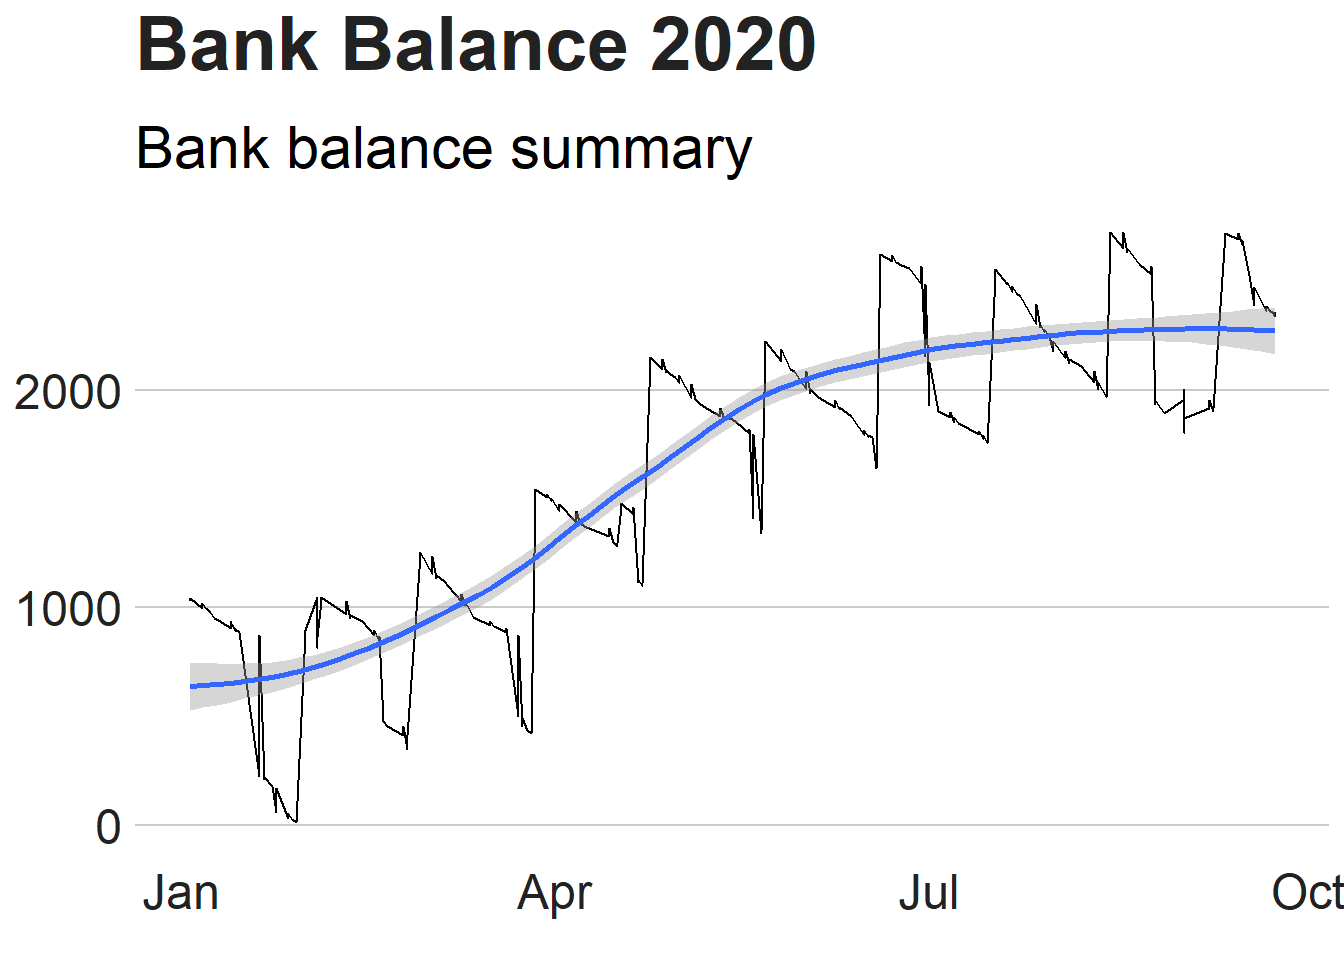
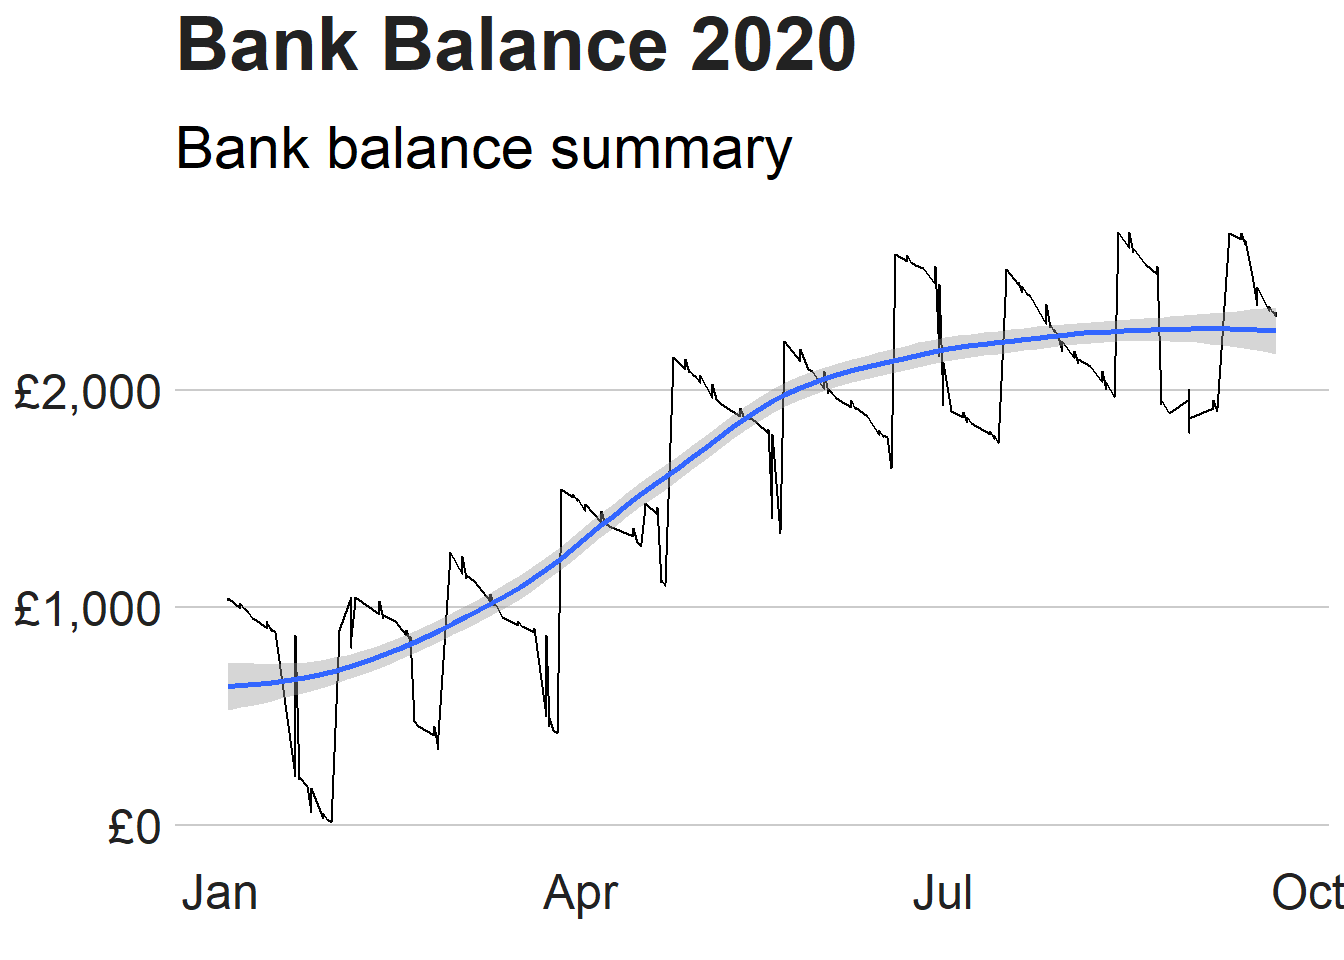
zizz

diff --git a/public/2020/07/02/bank-transactions-and-asda/index.html b/public/2020/07/02/bank-transactions-and-asda/index.html
@@ -6,8 +6,8 @@
 <meta name="generator" content="Hugo 0.73.0" />
 
 
-<title>Bank transactions and ASDA - Roy Blogdown</title>
-<meta property="og:title" content="Bank transactions and ASDA - Roy Blogdown">
+<title>ASDA - Roy Blogdown</title>
+<meta property="og:title" content="ASDA - Roy Blogdown">
 
 
   <link href='/featured.ico' rel='icon' type='image/x-icon'/>
@@ -64,10 +64,10 @@
 
   <article class="article">
     
-    <span class="article-duration">4 min read</span>
+    <span class="article-duration">2 min read</span>
     
 
-    <h1 class="article-title">Bank transactions and ASDA</h1>
+    <h1 class="article-title">ASDA</h1>
 
     
     <span class="article-date">2020-07-02</span>
@@ -77,8 +77,6 @@
       
 
 
-<div id="bbc-news-ggplot-style-example" class="section level1">
-<h1>BBC News ggplot style example</h1>
 <p>This is an example article using the BBC News ggplot style package. Data is sourced from bank statements.</p>
 <pre class="r"><code>year2020 &lt;- read_csv(&quot;2019-2020.csv&quot;)
 year2019 &lt;- read_csv(&quot;2018-2019.csv&quot;)
@@ -90,46 +88,15 @@ year2016 &lt;- read_csv(&quot;2015-2016.csv&quot;)</code></pre>
   union_all(year2018) %&gt;% 
   union_all(year2017) %&gt;% 
   union_all(year2016)
-year2020</code></pre>
-<pre><code>## # A tibble: 610 x 8
-##    `Transaction Da~ `Transaction Ty~ `Sort Code` `Account Number`
-##    &lt;chr&gt;            &lt;chr&gt;            &lt;chr&gt;                  &lt;dbl&gt;
-##  1 23/09/2020       DEB              &#39;77-85-26           42051368
-##  2 23/09/2020       DEB              &#39;77-85-26           42051368
-##  3 22/09/2020       DEB              &#39;77-85-26           42051368
-##  4 22/09/2020       DEB              &#39;77-85-26           42051368
-##  5 22/09/2020       DEB              &#39;77-85-26           42051368
-##  6 21/09/2020       DEB              &#39;77-85-26           42051368
-##  7 21/09/2020       DEB              &#39;77-85-26           42051368
-##  8 21/09/2020       DEB              &#39;77-85-26           42051368
-##  9 21/09/2020       DEB              &#39;77-85-26           42051368
-## 10 21/09/2020       DEB              &#39;77-85-26           42051368
-## # ... with 600 more rows, and 4 more variables: `Transaction
-## #   Description` &lt;chr&gt;, `Debit Amount` &lt;dbl&gt;, `Credit Amount` &lt;dbl&gt;,
-## #   Balance &lt;dbl&gt;</code></pre>
-<pre class="r"><code>colnames(data) &lt;- c(&quot;date&quot;,&quot;type&quot;,&quot;code&quot;,&quot;number&quot;,&quot;description&quot;,&quot;dr&quot;,&quot;cr&quot;,&quot;balance&quot;)
+
+colnames(data) &lt;- c(&quot;date&quot;,&quot;type&quot;,&quot;code&quot;,&quot;number&quot;,&quot;description&quot;,&quot;dr&quot;,&quot;cr&quot;,&quot;balance&quot;)
 
 data &lt;- data %&gt;%
   mutate(date = dmy(date),
          year_month = as.numeric(paste(year(date), month(date), sep = &quot;&quot;))) %&gt;% 
   arrange(date)
 
-data</code></pre>
-<pre><code>## # A tibble: 2,438 x 9
-##    date       type  code     number description      dr    cr balance year_month
-##    &lt;date&gt;     &lt;chr&gt; &lt;chr&gt;     &lt;dbl&gt; &lt;chr&gt;         &lt;dbl&gt; &lt;dbl&gt;   &lt;dbl&gt;      &lt;dbl&gt;
-##  1 2015-09-28 DEB   &#39;77-85~  4.21e7 BANGOR UNIVE~  3      NA    2548.      20159
-##  2 2015-09-28 DEB   &#39;77-85~  4.21e7 CURRYS SUPER~ 23.0    NA    2551.      20159
-##  3 2015-09-28 DEB   &#39;77-85~  4.21e7 VODAFONE LTD  10      NA    2574.      20159
-##  4 2015-09-28 BGC   &#39;77-85~  4.21e7 STUDENT LOAN~ NA    1336.   2584.      20159
-##  5 2015-09-28 BGC   &#39;77-85~  4.21e7 STUDENT LOAN~ NA    1129    1248.      20159
-##  6 2015-09-29 DEB   &#39;77-85~  4.21e7 ASDA STORES ~  6.05   NA    2542.      20159
-##  7 2015-09-30 DEB   &#39;77-85~  4.21e7 W M MORRISON~  7.19   NA    2535.      20159
-##  8 2015-10-02 DEB   &#39;77-85~  4.21e7 W M MORRISON~ 13.0    NA    2522.     201510
-##  9 2015-10-05 DEB   &#39;77-85~  4.21e7 BANGOR UNIVE~  3.93   NA    2493.     201510
-## 10 2015-10-05 DEB   &#39;77-85~  4.21e7 VODAFONE LTD  20      NA    2497.     201510
-## # ... with 2,428 more rows</code></pre>
-<pre class="r"><code>data_asda_wages &lt;- data %&gt;% 
+data_asda_wages &lt;- data %&gt;% 
   filter(!cr==is.na(cr),
          description==&quot;ASDA STORES PLC&quot;) %&gt;% 
   mutate(cumsum_asda_wage=cumsum(cr))
@@ -142,41 +109,24 @@ data_asda_costs &lt;- data %&gt;%
   ggplot(aes(date,balance))+
   geom_line()+
   geom_smooth()+
+  scale_y_continuous(labels = scales::dollar_format(prefix = &quot;£&quot;))+
   bbc_style()+
   labs(title = &quot;Bank Balance 2015-2020&quot;,
        subtitle=&quot;Bank balance summary for university years&quot;)</code></pre>
 <p><img src="/post/2020-07-02-bank-transactions-and-asda_files/figure-html/unnamed-chunk-4-1.png" width="672" /></p>
-</div>
-<div id="another-headline" class="section level1">
-<h1>Another headline</h1>
-<p>And some text to separate the graphs.</p>
 <pre class="r"><code>  data %&gt;%
-  filter(year_month &gt; &quot;2020-1-1&quot;) %&gt;% 
-  ggplot(aes(date,balance))+
-  geom_line()+
-  geom_smooth()+
-  bbc_style()+
-  labs(title = &quot;Bank Balance 2020&quot;,
-       subtitle=&quot;Bank balance summary&quot;)</code></pre>
+    filter(year_month &gt; &quot;2020-1-1&quot;) %&gt;% 
+    ggplot(aes(date,balance))+
+      geom_line()+
+      geom_smooth()+
+    scale_y_continuous(labels = scales::dollar_format(prefix = &quot;£&quot;))+
+    bbc_style()+
+    labs(title = &quot;Bank Balance 2020&quot;,
+         subtitle=&quot;Bank balance summary&quot;)</code></pre>
 <p><img src="/post/2020-07-02-bank-transactions-and-asda_files/figure-html/unnamed-chunk-5-1.png" width="672" /></p>
-</div>
 <div id="asda" class="section level1">
 <h1>ASDA</h1>
-<p>Cumulative wages and costs specific to ASDA. The graph clearly shows that I spend too much money during my lunch breaks.</p>
-<pre class="r"><code>data_asda_costs %&gt;% 
-  union_all(data_asda_wages) %&gt;% 
-  arrange(date) %&gt;% 
-  filter(date&gt;dmy(&quot;30092016&quot;)) %&gt;% 
-  ggplot(aes(date))+
-  geom_ribbon(aes(ymax=cumsum_asda_wage,ymin=0),na.rm = T,alpha=0.7,colour=&quot;black&quot;,fill=&quot;darkgreen&quot;,size=1)+
-  geom_ribbon(aes(ymax=cumsum_asda,ymin=0),na.rm=T,alpha=0.9,colour=&quot;black&quot;,fill=&quot;red&quot;,size=1)+
-  theme_bw()+
-  labs(title=&quot;ASDA (theme_bw)&quot;,
-    subtitle=&quot;ASDA cumulative wages and costs in store&quot;
-  )+ 
-  annotate(&quot;text&quot;, x = dmy(&quot;01032020&quot;), y = 12000, size=6,label = &quot;wages&quot;,colour=&quot;white&quot;)+ 
-  annotate(&quot;text&quot;, x = dmy(&quot;01032020&quot;), y = 2100, size=6, label = &quot;costs&quot;,colour=&quot;white&quot;)</code></pre>
-<p><img src="/post/2020-07-02-bank-transactions-and-asda_files/figure-html/unnamed-chunk-6-1.png" width="672" /></p>
+<p>Cumulative wages and costs specific to ASDA.</p>
 <pre class="r"><code>data_asda_costs %&gt;% 
   union_all(data_asda_wages) %&gt;% 
   arrange(date) %&gt;% 
@@ -190,27 +140,30 @@ data_asda_costs &lt;- data %&gt;%
   )+ 
   annotate(&quot;text&quot;, x = dmy(&quot;01032020&quot;), y = 12000, size=6,label = &quot;wages&quot;,colour=&quot;white&quot;)+ 
   annotate(&quot;text&quot;, x = dmy(&quot;01032020&quot;), y = 2100, size=6, label = &quot;costs&quot;,colour=&quot;white&quot;)</code></pre>
-<p><img src="/post/2020-07-02-bank-transactions-and-asda_files/figure-html/unnamed-chunk-7-1.png" width="672" /></p>
-<pre class="r"><code>data</code></pre>
-<pre><code>## # A tibble: 2,438 x 9
-##    date       type  code     number description      dr    cr balance year_month
-##    &lt;date&gt;     &lt;chr&gt; &lt;chr&gt;     &lt;dbl&gt; &lt;chr&gt;         &lt;dbl&gt; &lt;dbl&gt;   &lt;dbl&gt;      &lt;dbl&gt;
-##  1 2015-09-28 DEB   &#39;77-85~  4.21e7 BANGOR UNIVE~  3      NA    2548.      20159
-##  2 2015-09-28 DEB   &#39;77-85~  4.21e7 CURRYS SUPER~ 23.0    NA    2551.      20159
-##  3 2015-09-28 DEB   &#39;77-85~  4.21e7 VODAFONE LTD  10      NA    2574.      20159
-##  4 2015-09-28 BGC   &#39;77-85~  4.21e7 STUDENT LOAN~ NA    1336.   2584.      20159
-##  5 2015-09-28 BGC   &#39;77-85~  4.21e7 STUDENT LOAN~ NA    1129    1248.      20159
-##  6 2015-09-29 DEB   &#39;77-85~  4.21e7 ASDA STORES ~  6.05   NA    2542.      20159
-##  7 2015-09-30 DEB   &#39;77-85~  4.21e7 W M MORRISON~  7.19   NA    2535.      20159
-##  8 2015-10-02 DEB   &#39;77-85~  4.21e7 W M MORRISON~ 13.0    NA    2522.     201510
-##  9 2015-10-05 DEB   &#39;77-85~  4.21e7 BANGOR UNIVE~  3.93   NA    2493.     201510
-## 10 2015-10-05 DEB   &#39;77-85~  4.21e7 VODAFONE LTD  20      NA    2497.     201510
-## # ... with 2,428 more rows</code></pre>
+<p><img src="/post/2020-07-02-bank-transactions-and-asda_files/figure-html/unnamed-chunk-6-1.png" width="672" /></p>
+</div>
+<div id="zizza-pizza" class="section level1">
+<h1>Zizza Pizza</h1>
 <pre class="r"><code>data %&gt;% 
-  filter(str_detect(description, &quot;^ZIZZA&quot;)) %&gt;% 
+  arrange(date) %&gt;%   
+  filter(str_detect(description, &quot;(Zizza)|(PIZZA)|(SUBWAY)|(BAR)|(MCDONALDS)|(TAKEAWAY)|(GREGGS)&quot;))  %&gt;% 
   mutate(cumsum=cumsum(dr)) %&gt;% 
   ggplot(aes(date,cumsum)) + 
-  geom_line()</code></pre>
+  geom_line() +
+  ggtitle(&quot;Money spent in Takeaways&quot;) +
+  scale_y_continuous(labels = scales::dollar_format(prefix = &quot;£&quot;))+
+  bbc_style()</code></pre>
+<p><img src="/post/2020-07-02-bank-transactions-and-asda_files/figure-html/unnamed-chunk-7-1.png" width="672" /></p>
+<pre class="r"><code>view(data)
+data %&gt;% 
+  arrange(date) %&gt;%   
+  filter(str_detect(description, &quot;(ZIZZA)|(TAKEAWAY)&quot;))  %&gt;% 
+  mutate(cumsum=cumsum(dr)) %&gt;% 
+  ggplot(aes(date,cumsum)) + 
+  geom_line() +
+  ggtitle(&quot;Money spent in Zizza Pizza&quot;) +
+  scale_y_continuous(labels = scales::dollar_format(prefix = &quot;£&quot;))+
+  bbc_style()</code></pre>
 <p><img src="/post/2020-07-02-bank-transactions-and-asda_files/figure-html/unnamed-chunk-7-2.png" width="672" /></p>
 </div>
 

diff --git a/content/post/2020-07-02-bank-transactions-and-asda.html b/content/post/2020-07-02-bank-transactions-and-asda.html
@@ -1,5 +1,5 @@
 ---
-title: Bank transactions and ASDA
+title: ASDA
 author: ~
 date: '2020-07-02'
 slug: bank-transactions-and-asda
@@ -9,8 +9,6 @@ tags: []
 
 
 
-<div id="bbc-news-ggplot-style-example" class="section level1">
-<h1>BBC News ggplot style example</h1>
 <p>This is an example article using the BBC News ggplot style package. Data is sourced from bank statements.</p>
 <pre class="r"><code>year2020 &lt;- read_csv(&quot;2019-2020.csv&quot;)
 year2019 &lt;- read_csv(&quot;2018-2019.csv&quot;)
@@ -22,46 +20,15 @@ year2016 &lt;- read_csv(&quot;2015-2016.csv&quot;)</code></pre>
   union_all(year2018) %&gt;% 
   union_all(year2017) %&gt;% 
   union_all(year2016)
-year2020</code></pre>
-<pre><code>## # A tibble: 610 x 8
-##    `Transaction Da~ `Transaction Ty~ `Sort Code` `Account Number`
-##    &lt;chr&gt;            &lt;chr&gt;            &lt;chr&gt;                  &lt;dbl&gt;
-##  1 23/09/2020       DEB              &#39;77-85-26           42051368
-##  2 23/09/2020       DEB              &#39;77-85-26           42051368
-##  3 22/09/2020       DEB              &#39;77-85-26           42051368
-##  4 22/09/2020       DEB              &#39;77-85-26           42051368
-##  5 22/09/2020       DEB              &#39;77-85-26           42051368
-##  6 21/09/2020       DEB              &#39;77-85-26           42051368
-##  7 21/09/2020       DEB              &#39;77-85-26           42051368
-##  8 21/09/2020       DEB              &#39;77-85-26           42051368
-##  9 21/09/2020       DEB              &#39;77-85-26           42051368
-## 10 21/09/2020       DEB              &#39;77-85-26           42051368
-## # ... with 600 more rows, and 4 more variables: `Transaction
-## #   Description` &lt;chr&gt;, `Debit Amount` &lt;dbl&gt;, `Credit Amount` &lt;dbl&gt;,
-## #   Balance &lt;dbl&gt;</code></pre>
-<pre class="r"><code>colnames(data) &lt;- c(&quot;date&quot;,&quot;type&quot;,&quot;code&quot;,&quot;number&quot;,&quot;description&quot;,&quot;dr&quot;,&quot;cr&quot;,&quot;balance&quot;)
+
+colnames(data) &lt;- c(&quot;date&quot;,&quot;type&quot;,&quot;code&quot;,&quot;number&quot;,&quot;description&quot;,&quot;dr&quot;,&quot;cr&quot;,&quot;balance&quot;)
 
 data &lt;- data %&gt;%
   mutate(date = dmy(date),
          year_month = as.numeric(paste(year(date), month(date), sep = &quot;&quot;))) %&gt;% 
   arrange(date)
 
-data</code></pre>
-<pre><code>## # A tibble: 2,438 x 9
-##    date       type  code     number description      dr    cr balance year_month
-##    &lt;date&gt;     &lt;chr&gt; &lt;chr&gt;     &lt;dbl&gt; &lt;chr&gt;         &lt;dbl&gt; &lt;dbl&gt;   &lt;dbl&gt;      &lt;dbl&gt;
-##  1 2015-09-28 DEB   &#39;77-85~  4.21e7 BANGOR UNIVE~  3      NA    2548.      20159
-##  2 2015-09-28 DEB   &#39;77-85~  4.21e7 CURRYS SUPER~ 23.0    NA    2551.      20159
-##  3 2015-09-28 DEB   &#39;77-85~  4.21e7 VODAFONE LTD  10      NA    2574.      20159
-##  4 2015-09-28 BGC   &#39;77-85~  4.21e7 STUDENT LOAN~ NA    1336.   2584.      20159
-##  5 2015-09-28 BGC   &#39;77-85~  4.21e7 STUDENT LOAN~ NA    1129    1248.      20159
-##  6 2015-09-29 DEB   &#39;77-85~  4.21e7 ASDA STORES ~  6.05   NA    2542.      20159
-##  7 2015-09-30 DEB   &#39;77-85~  4.21e7 W M MORRISON~  7.19   NA    2535.      20159
-##  8 2015-10-02 DEB   &#39;77-85~  4.21e7 W M MORRISON~ 13.0    NA    2522.     201510
-##  9 2015-10-05 DEB   &#39;77-85~  4.21e7 BANGOR UNIVE~  3.93   NA    2493.     201510
-## 10 2015-10-05 DEB   &#39;77-85~  4.21e7 VODAFONE LTD  20      NA    2497.     201510
-## # ... with 2,428 more rows</code></pre>
-<pre class="r"><code>data_asda_wages &lt;- data %&gt;% 
+data_asda_wages &lt;- data %&gt;% 
   filter(!cr==is.na(cr),
          description==&quot;ASDA STORES PLC&quot;) %&gt;% 
   mutate(cumsum_asda_wage=cumsum(cr))
@@ -74,41 +41,24 @@ data_asda_costs &lt;- data %&gt;%
   ggplot(aes(date,balance))+
   geom_line()+
   geom_smooth()+
+  scale_y_continuous(labels = scales::dollar_format(prefix = &quot;£&quot;))+
   bbc_style()+
   labs(title = &quot;Bank Balance 2015-2020&quot;,
        subtitle=&quot;Bank balance summary for university years&quot;)</code></pre>
 <p><img src="/post/2020-07-02-bank-transactions-and-asda_files/figure-html/unnamed-chunk-4-1.png" width="672" /></p>
-</div>
-<div id="another-headline" class="section level1">
-<h1>Another headline</h1>
-<p>And some text to separate the graphs.</p>
 <pre class="r"><code>  data %&gt;%
-  filter(year_month &gt; &quot;2020-1-1&quot;) %&gt;% 
-  ggplot(aes(date,balance))+
-  geom_line()+
-  geom_smooth()+
-  bbc_style()+
-  labs(title = &quot;Bank Balance 2020&quot;,
-       subtitle=&quot;Bank balance summary&quot;)</code></pre>
+    filter(year_month &gt; &quot;2020-1-1&quot;) %&gt;% 
+    ggplot(aes(date,balance))+
+      geom_line()+
+      geom_smooth()+
+    scale_y_continuous(labels = scales::dollar_format(prefix = &quot;£&quot;))+
+    bbc_style()+
+    labs(title = &quot;Bank Balance 2020&quot;,
+         subtitle=&quot;Bank balance summary&quot;)</code></pre>
 <p><img src="/post/2020-07-02-bank-transactions-and-asda_files/figure-html/unnamed-chunk-5-1.png" width="672" /></p>
-</div>
 <div id="asda" class="section level1">
 <h1>ASDA</h1>
-<p>Cumulative wages and costs specific to ASDA. The graph clearly shows that I spend too much money during my lunch breaks.</p>
-<pre class="r"><code>data_asda_costs %&gt;% 
-  union_all(data_asda_wages) %&gt;% 
-  arrange(date) %&gt;% 
-  filter(date&gt;dmy(&quot;30092016&quot;)) %&gt;% 
-  ggplot(aes(date))+
-  geom_ribbon(aes(ymax=cumsum_asda_wage,ymin=0),na.rm = T,alpha=0.7,colour=&quot;black&quot;,fill=&quot;darkgreen&quot;,size=1)+
-  geom_ribbon(aes(ymax=cumsum_asda,ymin=0),na.rm=T,alpha=0.9,colour=&quot;black&quot;,fill=&quot;red&quot;,size=1)+
-  theme_bw()+
-  labs(title=&quot;ASDA (theme_bw)&quot;,
-    subtitle=&quot;ASDA cumulative wages and costs in store&quot;
-  )+ 
-  annotate(&quot;text&quot;, x = dmy(&quot;01032020&quot;), y = 12000, size=6,label = &quot;wages&quot;,colour=&quot;white&quot;)+ 
-  annotate(&quot;text&quot;, x = dmy(&quot;01032020&quot;), y = 2100, size=6, label = &quot;costs&quot;,colour=&quot;white&quot;)</code></pre>
-<p><img src="/post/2020-07-02-bank-transactions-and-asda_files/figure-html/unnamed-chunk-6-1.png" width="672" /></p>
+<p>Cumulative wages and costs specific to ASDA.</p>
 <pre class="r"><code>data_asda_costs %&gt;% 
   union_all(data_asda_wages) %&gt;% 
   arrange(date) %&gt;% 
@@ -122,26 +72,29 @@ data_asda_costs &lt;- data %&gt;%
   )+ 
   annotate(&quot;text&quot;, x = dmy(&quot;01032020&quot;), y = 12000, size=6,label = &quot;wages&quot;,colour=&quot;white&quot;)+ 
   annotate(&quot;text&quot;, x = dmy(&quot;01032020&quot;), y = 2100, size=6, label = &quot;costs&quot;,colour=&quot;white&quot;)</code></pre>
-<p><img src="/post/2020-07-02-bank-transactions-and-asda_files/figure-html/unnamed-chunk-7-1.png" width="672" /></p>
-<pre class="r"><code>data</code></pre>
-<pre><code>## # A tibble: 2,438 x 9
-##    date       type  code     number description      dr    cr balance year_month
-##    &lt;date&gt;     &lt;chr&gt; &lt;chr&gt;     &lt;dbl&gt; &lt;chr&gt;         &lt;dbl&gt; &lt;dbl&gt;   &lt;dbl&gt;      &lt;dbl&gt;
-##  1 2015-09-28 DEB   &#39;77-85~  4.21e7 BANGOR UNIVE~  3      NA    2548.      20159
-##  2 2015-09-28 DEB   &#39;77-85~  4.21e7 CURRYS SUPER~ 23.0    NA    2551.      20159
-##  3 2015-09-28 DEB   &#39;77-85~  4.21e7 VODAFONE LTD  10      NA    2574.      20159
-##  4 2015-09-28 BGC   &#39;77-85~  4.21e7 STUDENT LOAN~ NA    1336.   2584.      20159
-##  5 2015-09-28 BGC   &#39;77-85~  4.21e7 STUDENT LOAN~ NA    1129    1248.      20159
-##  6 2015-09-29 DEB   &#39;77-85~  4.21e7 ASDA STORES ~  6.05   NA    2542.      20159
-##  7 2015-09-30 DEB   &#39;77-85~  4.21e7 W M MORRISON~  7.19   NA    2535.      20159
-##  8 2015-10-02 DEB   &#39;77-85~  4.21e7 W M MORRISON~ 13.0    NA    2522.     201510
-##  9 2015-10-05 DEB   &#39;77-85~  4.21e7 BANGOR UNIVE~  3.93   NA    2493.     201510
-## 10 2015-10-05 DEB   &#39;77-85~  4.21e7 VODAFONE LTD  20      NA    2497.     201510
-## # ... with 2,428 more rows</code></pre>
+<p><img src="/post/2020-07-02-bank-transactions-and-asda_files/figure-html/unnamed-chunk-6-1.png" width="672" /></p>
+</div>
+<div id="zizza-pizza" class="section level1">
+<h1>Zizza Pizza</h1>
 <pre class="r"><code>data %&gt;% 
-  filter(str_detect(description, &quot;^ZIZZA&quot;)) %&gt;% 
+  arrange(date) %&gt;%   
+  filter(str_detect(description, &quot;(Zizza)|(PIZZA)|(SUBWAY)|(BAR)|(MCDONALDS)|(TAKEAWAY)|(GREGGS)&quot;))  %&gt;% 
   mutate(cumsum=cumsum(dr)) %&gt;% 
   ggplot(aes(date,cumsum)) + 
-  geom_line()</code></pre>
+  geom_line() +
+  ggtitle(&quot;Money spent in Takeaways&quot;) +
+  scale_y_continuous(labels = scales::dollar_format(prefix = &quot;£&quot;))+
+  bbc_style()</code></pre>
+<p><img src="/post/2020-07-02-bank-transactions-and-asda_files/figure-html/unnamed-chunk-7-1.png" width="672" /></p>
+<pre class="r"><code>view(data)
+data %&gt;% 
+  arrange(date) %&gt;%   
+  filter(str_detect(description, &quot;(ZIZZA)|(TAKEAWAY)&quot;))  %&gt;% 
+  mutate(cumsum=cumsum(dr)) %&gt;% 
+  ggplot(aes(date,cumsum)) + 
+  geom_line() +
+  ggtitle(&quot;Money spent in Zizza Pizza&quot;) +
+  scale_y_continuous(labels = scales::dollar_format(prefix = &quot;£&quot;))+
+  bbc_style()</code></pre>
 <p><img src="/post/2020-07-02-bank-transactions-and-asda_files/figure-html/unnamed-chunk-7-2.png" width="672" /></p>
 </div>

diff --git a/content/post/2020-10-01-energyhhi.html b/content/post/2020-10-01-energyhhi.html
@@ -9,12 +9,12 @@ tags: []
 
 
 
-<pre class="r"><code>library(tidyverse)</code></pre>
 <div id="uk-energy-market-competitiveness" class="section level1">
 <h1>UK energy market competitiveness</h1>
 <p>Regulators use the HHI Index using the 50 largest companies in a particular industry to determine if that industry should be considered competitive or as close to being a monopoly.</p>
 <p>A market with an HHI of less than 1,500 is considered to be a competitive marketplace, an HHI of 1,500 to 2,500 to be a moderately concentrated marketplace, and an HHI of 2,500 or greater to be a highly concentrated marketplace.</p>
 <p><span class="math display">\[HHI = 10,000 [s^2_1+s^2_2+s^2_3+...+s^2_n]\]</span></p>
+<pre class="r"><code>library(tidyverse)</code></pre>
 <pre class="r"><code>data &lt;- readxl::read_excel(file.path(&quot;data&quot;, &quot;energymarket.xlsx&quot;)) %&gt;%
   filter(!is.na(share)) %&gt;%
   mutate(no_customers = as.numeric(no_customers))

diff --git a/public/2020/10/01/energyhhi/index.html b/public/2020/10/01/energyhhi/index.html
@@ -77,12 +77,12 @@
       
 
 
-<pre class="r"><code>library(tidyverse)</code></pre>
 <div id="uk-energy-market-competitiveness" class="section level1">
 <h1>UK energy market competitiveness</h1>
 <p>Regulators use the HHI Index using the 50 largest companies in a particular industry to determine if that industry should be considered competitive or as close to being a monopoly.</p>
 <p>A market with an HHI of less than 1,500 is considered to be a competitive marketplace, an HHI of 1,500 to 2,500 to be a moderately concentrated marketplace, and an HHI of 2,500 or greater to be a highly concentrated marketplace.</p>
 <p><span class="math display">\[HHI = 10,000 [s^2_1+s^2_2+s^2_3+...+s^2_n]\]</span></p>
+<pre class="r"><code>library(tidyverse)</code></pre>
 <pre class="r"><code>data &lt;- readxl::read_excel(file.path(&quot;data&quot;, &quot;energymarket.xlsx&quot;)) %&gt;%
   filter(!is.na(share)) %&gt;%
   mutate(no_customers = as.numeric(no_customers))

diff --git a/public/index.html b/public/index.html
@@ -112,7 +112,7 @@
     </article>
     
     <article class="archive-item">
-      <a href="/2020/07/02/bank-transactions-and-asda/" class="archive-item-link">Bank transactions and ASDA</a>
+      <a href="/2020/07/02/bank-transactions-and-asda/" class="archive-item-link">ASDA</a>
       <span class="archive-item-date">
         2020-07-02
       </span>

diff --git a/public/post/index.html b/public/post/index.html
@@ -109,7 +109,7 @@
     </article>
     
     <article class="archive-item">
-      <a href="/2020/07/02/bank-transactions-and-asda/" class="archive-item-link">Bank transactions and ASDA</a>
+      <a href="/2020/07/02/bank-transactions-and-asda/" class="archive-item-link">ASDA</a>
       <span class="archive-item-date">
         2020-07-02
       </span>
